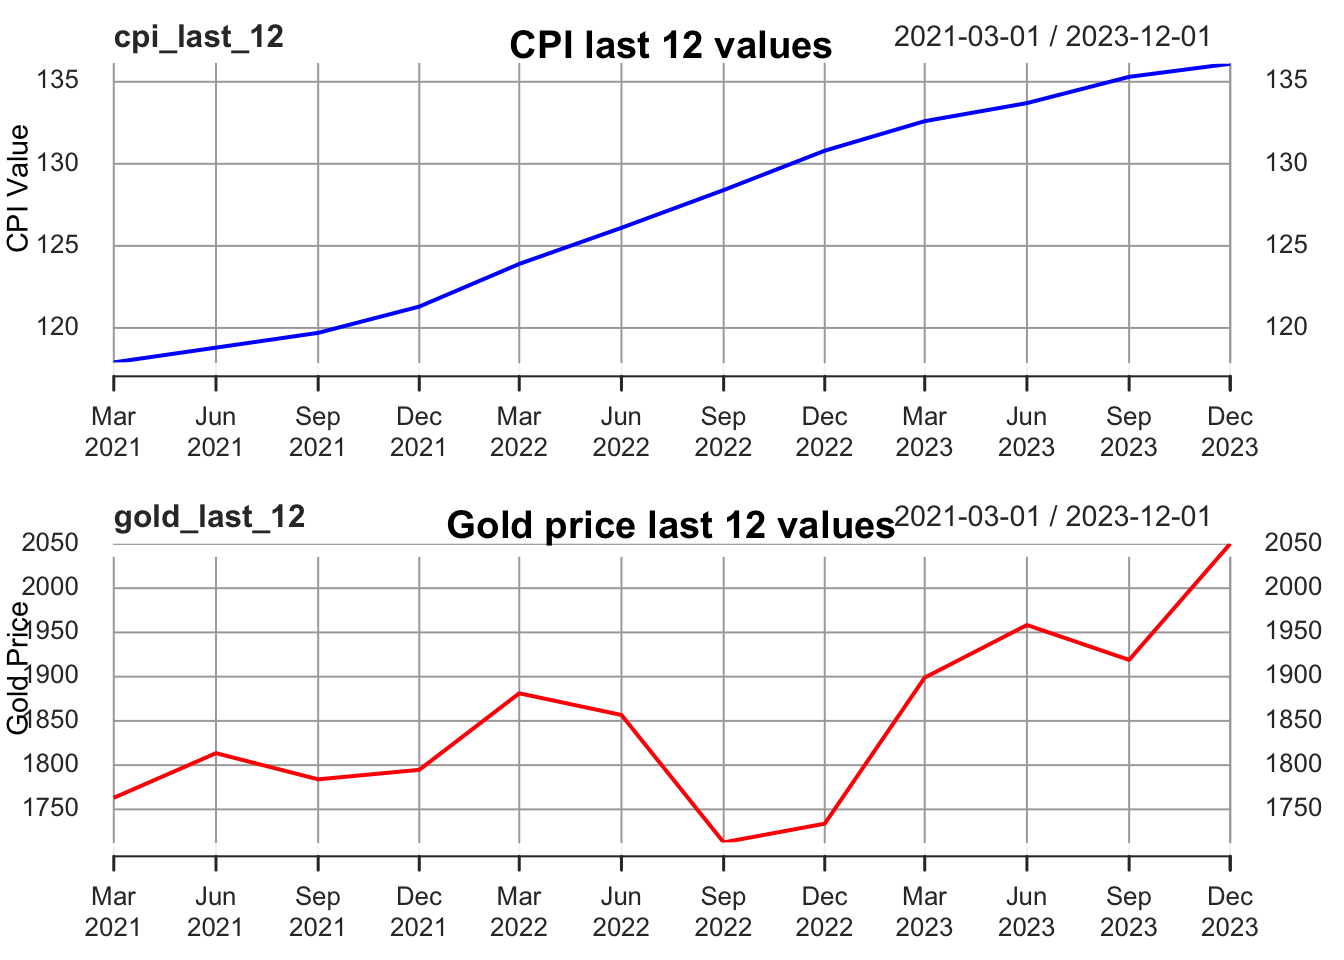
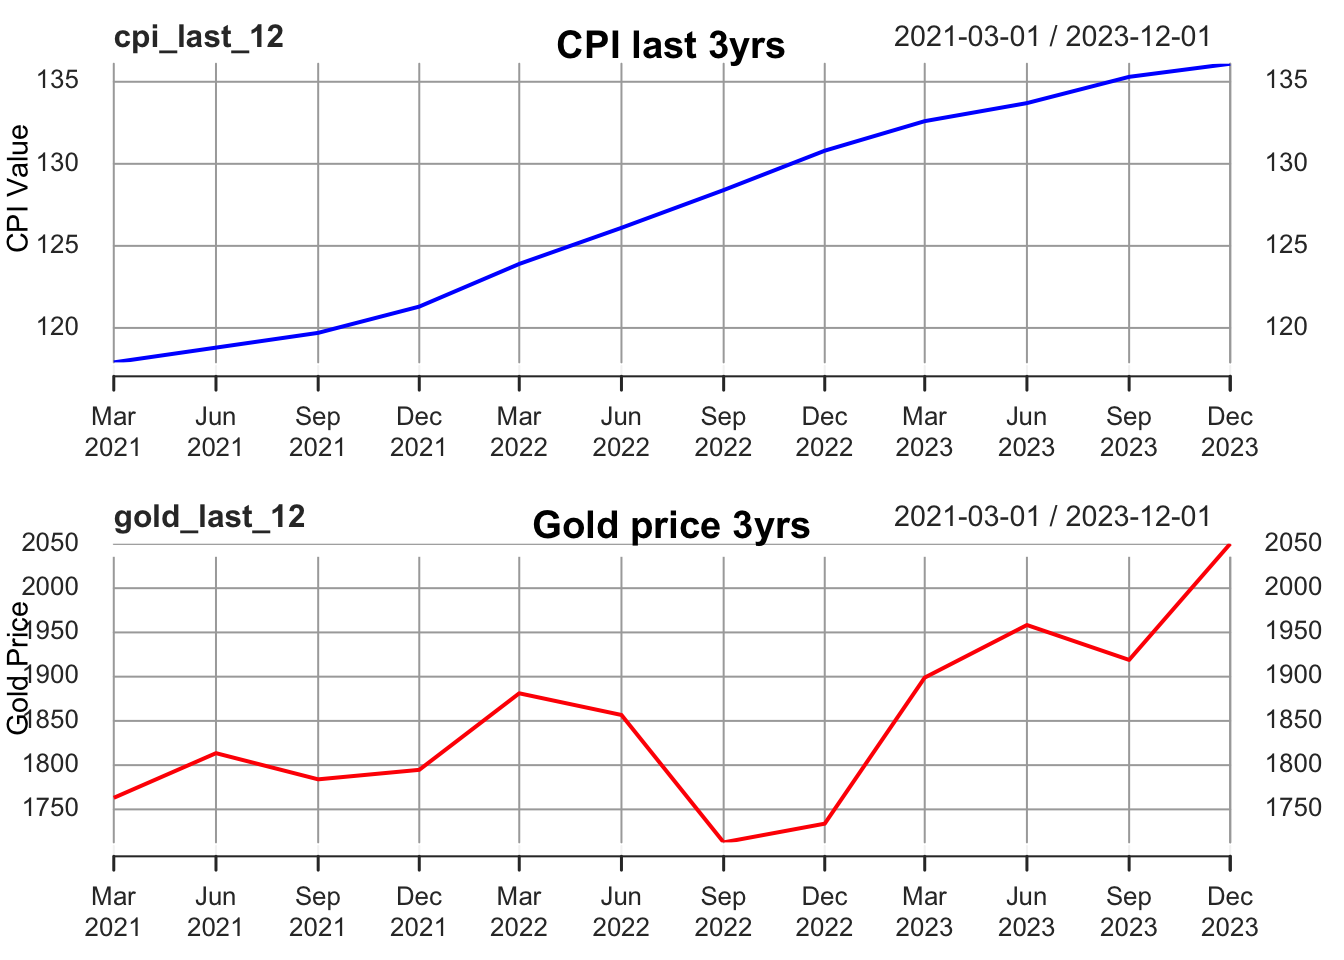
update web

Changed region(s): [[0.3125, 0.5312, 0.6875, 0.5625], [0.375, 0.0312, 0.625, 0.0625]]

diff --git a/docs/index.html b/docs/index.html
@@ -202,138 +202,50 @@ ul.task-list li input[type="checkbox"] {
 <table class="table table-striped table-hover table-bordered table-sm small" data-quarto-postprocess="true">
 <thead>
 <tr class="header">
+<th data-quarto-table-cell-role="th" style="text-align: center; position: sticky; top: 0; background-color: #FFFFFF;">Variable</th>
 <th data-quarto-table-cell-role="th" style="text-align: center; position: sticky; top: 0; background-color: #FFFFFF;">cpi_data</th>
-<th data-quarto-table-cell-role="th" style="text-align: center; position: sticky; top: 0; background-color: #FFFFFF;">gold_data</th>
-<th data-quarto-table-cell-role="th" style="text-align: center; position: sticky; top: 0; background-color: #FFFFFF;">gdp_data</th>
-<th data-quarto-table-cell-role="th" style="text-align: center; position: sticky; top: 0; background-color: #FFFFFF;">crt_data</th>
-<th data-quarto-table-cell-role="th" style="text-align: center; position: sticky; top: 0; background-color: #FFFFFF;">unemp_data</th>
-<th data-quarto-table-cell-role="th" style="text-align: center; position: sticky; top: 0; background-color: #FFFFFF;">nloan_data</th>
-<th data-quarto-table-cell-role="th" style="text-align: center; position: sticky; top: 0; background-color: #FFFFFF;">export_data</th>
-<th data-quarto-table-cell-role="th" style="text-align: center; position: sticky; top: 0; background-color: #FFFFFF;">import_data</th>
-<th data-quarto-table-cell-role="th" style="text-align: center; position: sticky; top: 0; background-color: #FFFFFF;">aord_data</th>
-<th data-quarto-table-cell-role="th" style="text-align: center; position: sticky; top: 0; background-color: #FFFFFF;">exr_data</th>
 </tr>
 </thead>
 <tbody>
 <tr class="odd">
+<td style="text-align: center;">cpi_data</td>
 <td style="text-align: center;">1.0000</td>
+</tr>
+<tr class="even">
+<td style="text-align: center;">gold_data</td>
 <td style="text-align: center;">0.5865</td>
+</tr>
+<tr class="odd">
+<td style="text-align: center;">gdp_data</td>
 <td style="text-align: center;">0.9300</td>
+</tr>
+<tr class="even">
+<td style="text-align: center;">crt_data</td>
 <td style="text-align: center;">-0.4067</td>
+</tr>
+<tr class="odd">
+<td style="text-align: center;">unemp_data</td>
 <td style="text-align: center;">-0.5474</td>
+</tr>
+<tr class="even">
+<td style="text-align: center;">nloan_data</td>
 <td style="text-align: center;">0.7767</td>
+</tr>
+<tr class="odd">
+<td style="text-align: center;">export_data</td>
 <td style="text-align: center;">0.9682</td>
+</tr>
+<tr class="even">
+<td style="text-align: center;">import_data</td>
 <td style="text-align: center;">0.9236</td>
+</tr>
+<tr class="odd">
+<td style="text-align: center;">aord_data</td>
 <td style="text-align: center;">0.9274</td>
+</tr>
+<tr class="even">
+<td style="text-align: center;">exr_data</td>
 <td style="text-align: center;">-0.7998</td>
-</tr>
-<tr class="even">
-<td style="text-align: center;">0.5865</td>
-<td style="text-align: center;">1.0000</td>
-<td style="text-align: center;">0.4489</td>
-<td style="text-align: center;">-0.0597</td>
-<td style="text-align: center;">-0.4514</td>
-<td style="text-align: center;">0.4537</td>
-<td style="text-align: center;">0.6199</td>
-<td style="text-align: center;">0.6781</td>
-<td style="text-align: center;">0.5084</td>
-<td style="text-align: center;">-0.1096</td>
-</tr>
-<tr class="odd">
-<td style="text-align: center;">0.9300</td>
-<td style="text-align: center;">0.4489</td>
-<td style="text-align: center;">1.0000</td>
-<td style="text-align: center;">-0.5150</td>
-<td style="text-align: center;">-0.5516</td>
-<td style="text-align: center;">0.8356</td>
-<td style="text-align: center;">0.9239</td>
-<td style="text-align: center;">0.8701</td>
-<td style="text-align: center;">0.9145</td>
-<td style="text-align: center;">-0.7645</td>
-</tr>
-<tr class="even">
-<td style="text-align: center;">-0.4067</td>
-<td style="text-align: center;">-0.0597</td>
-<td style="text-align: center;">-0.5150</td>
-<td style="text-align: center;">1.0000</td>
-<td style="text-align: center;">-0.2892</td>
-<td style="text-align: center;">-0.6537</td>
-<td style="text-align: center;">-0.3195</td>
-<td style="text-align: center;">-0.3125</td>
-<td style="text-align: center;">-0.5715</td>
-<td style="text-align: center;">0.6235</td>
-</tr>
-<tr class="odd">
-<td style="text-align: center;">-0.5474</td>
-<td style="text-align: center;">-0.4514</td>
-<td style="text-align: center;">-0.5516</td>
-<td style="text-align: center;">-0.2892</td>
-<td style="text-align: center;">1.0000</td>
-<td style="text-align: center;">-0.3473</td>
-<td style="text-align: center;">-0.6836</td>
-<td style="text-align: center;">-0.7121</td>
-<td style="text-align: center;">-0.4688</td>
-<td style="text-align: center;">0.1790</td>
-</tr>
-<tr class="even">
-<td style="text-align: center;">0.7767</td>
-<td style="text-align: center;">0.4537</td>
-<td style="text-align: center;">0.8356</td>
-<td style="text-align: center;">-0.6537</td>
-<td style="text-align: center;">-0.3473</td>
-<td style="text-align: center;">1.0000</td>
-<td style="text-align: center;">0.7540</td>
-<td style="text-align: center;">0.7573</td>
-<td style="text-align: center;">0.8837</td>
-<td style="text-align: center;">-0.6727</td>
-</tr>
-<tr class="odd">
-<td style="text-align: center;">0.9682</td>
-<td style="text-align: center;">0.6199</td>
-<td style="text-align: center;">0.9239</td>
-<td style="text-align: center;">-0.3195</td>
-<td style="text-align: center;">-0.6836</td>
-<td style="text-align: center;">0.7540</td>
-<td style="text-align: center;">1.0000</td>
-<td style="text-align: center;">0.9695</td>
-<td style="text-align: center;">0.8897</td>
-<td style="text-align: center;">-0.7070</td>
-</tr>
-<tr class="even">
-<td style="text-align: center;">0.9236</td>
-<td style="text-align: center;">0.6781</td>
-<td style="text-align: center;">0.8701</td>
-<td style="text-align: center;">-0.3125</td>
-<td style="text-align: center;">-0.7121</td>
-<td style="text-align: center;">0.7573</td>
-<td style="text-align: center;">0.9695</td>
-<td style="text-align: center;">1.0000</td>
-<td style="text-align: center;">0.8916</td>
-<td style="text-align: center;">-0.6392</td>
-</tr>
-<tr class="odd">
-<td style="text-align: center;">0.9274</td>
-<td style="text-align: center;">0.5084</td>
-<td style="text-align: center;">0.9145</td>
-<td style="text-align: center;">-0.5715</td>
-<td style="text-align: center;">-0.4688</td>
-<td style="text-align: center;">0.8837</td>
-<td style="text-align: center;">0.8897</td>
-<td style="text-align: center;">0.8916</td>
-<td style="text-align: center;">1.0000</td>
-<td style="text-align: center;">-0.7927</td>
-</tr>
-<tr class="even">
-<td style="text-align: center;">-0.7998</td>
-<td style="text-align: center;">-0.1096</td>
-<td style="text-align: center;">-0.7645</td>
-<td style="text-align: center;">0.6235</td>
-<td style="text-align: center;">0.1790</td>
-<td style="text-align: center;">-0.6727</td>
-<td style="text-align: center;">-0.7070</td>
-<td style="text-align: center;">-0.6392</td>
-<td style="text-align: center;">-0.7927</td>
-<td style="text-align: center;">1.0000</td>
 </tr>
 </tbody>
 </table>
@@ -515,10 +427,10 @@ ul.task-list li input[type="checkbox"] {
 
 </div>
 </div>
+<p>Table 3 Inflation Rate 2023</p>
 <ul>
-<li>Gold price:</li>
+<li>Gold price: Observing the trend charts of gold prices and cpi in the past three years, we can see that the trends of the two are almost consistent, so we believe that it is reasonable to use international gold prices as inflation expectations. Although the gold price is denominated in US dollars, the inclusion of the Australian dollar against the US dollar exchange rate in the data set makes it feasible to convert the gold price into a measure of its impact on the Australian market.</li>
 </ul>
-<p>Observing the trend charts of gold prices and cpi in the past three years, we can see that the trends of the two are almost consistent, so we believe that it is reasonable to use international gold prices as inflation expectations (gold price reduced by tenfold). Although the gold price is denominated in US dollars, the inclusion of the Australian dollar against the US dollar exchange rate in the data set makes it feasible to convert the gold price into a measure of its impact on the Australian market.</p>
 <div class="cell" data-layout-align="center">
 <div class="cell-output-display">
 <div class="quarto-figure quarto-figure-center">
@@ -528,9 +440,68 @@ ul.task-list li input[type="checkbox"] {
 </div>
 </div>
 </div>
+<p>Figure 4 CPI and Gold Price Last 3 Yrs Plot</p>
 <ul>
-<li>Cash rate target:</li>
+<li>Cash rate target: By comparing the cash rate target (quarterly average) over the past 2 year with the inflation rate, we can see that the cash rate target has increased by 1 percentage point over the past year (percentage change is 0.51), which is a decrease from the almost 3 percentage point increase in 2022 (percentage change nearly 27). The inflation rate has indeed shown a significant downward trend in 2023. There are reasons to believe that the effects of the RBA’s monetary tightening policy have already been reflected.</li>
 </ul>
+<div class="cell" data-layout-align="center">
+<div class="cell-output-display">
+<div class="table-responsive">
+<table class="table table-striped table-hover table-bordered table-sm small" data-quarto-postprocess="true">
+<thead>
+<tr class="header">
+<th data-quarto-table-cell-role="th" style="text-align: center; position: sticky; top: 0; background-color: #FFFFFF;"></th>
+<th data-quarto-table-cell-role="th" style="text-align: center; position: sticky; top: 0; background-color: #FFFFFF;">2021/12</th>
+<th data-quarto-table-cell-role="th" style="text-align: center; position: sticky; top: 0; background-color: #FFFFFF;">2022/03</th>
+<th data-quarto-table-cell-role="th" style="text-align: center; position: sticky; top: 0; background-color: #FFFFFF;">2022/06</th>
+<th data-quarto-table-cell-role="th" style="text-align: center; position: sticky; top: 0; background-color: #FFFFFF;">2022/09</th>
+<th data-quarto-table-cell-role="th" style="text-align: center; position: sticky; top: 0; background-color: #FFFFFF;">2022/12</th>
+<th data-quarto-table-cell-role="th" style="text-align: center; position: sticky; top: 0; background-color: #FFFFFF;">2022 annual change</th>
+<th data-quarto-table-cell-role="th" style="text-align: center; position: sticky; top: 0; background-color: #FFFFFF;">2023/03</th>
+<th data-quarto-table-cell-role="th" style="text-align: center; position: sticky; top: 0; background-color: #FFFFFF;">2023/06</th>
+<th data-quarto-table-cell-role="th" style="text-align: center; position: sticky; top: 0; background-color: #FFFFFF;">2023/09</th>
+<th data-quarto-table-cell-role="th" style="text-align: center; position: sticky; top: 0; background-color: #FFFFFF;">2023/12</th>
+<th data-quarto-table-cell-role="th" style="text-align: center; position: sticky; top: 0; background-color: #FFFFFF;">2023 annual change</th>
+</tr>
+</thead>
+<tbody>
+<tr class="odd">
+<td style="text-align: center;">Inflation rate</td>
+<td style="text-align: center;">54.96</td>
+<td style="text-align: center;">256.14</td>
+<td style="text-align: center;">131.44</td>
+<td style="text-align: center;">139.49</td>
+<td style="text-align: center;">39.47</td>
+<td style="text-align: center;">-0.28</td>
+<td style="text-align: center;">-35.55</td>
+<td style="text-align: center;">-53.06</td>
+<td style="text-align: center;">-34.19</td>
+<td style="text-align: center;">-68.17</td>
+<td style="text-align: center;">-2.73</td>
+</tr>
+<tr class="even">
+<td style="text-align: center;">Cash rate target</td>
+<td style="text-align: center;">844.00</td>
+<td style="text-align: center;">19.00</td>
+<td style="text-align: center;">75.00</td>
+<td style="text-align: center;">-81.00</td>
+<td style="text-align: center;">57.00</td>
+<td style="text-align: center;">-0.93</td>
+<td style="text-align: center;">-1.00</td>
+<td style="text-align: center;">-40.00</td>
+<td style="text-align: center;">-106.00</td>
+<td style="text-align: center;">-78.00</td>
+<td style="text-align: center;">-2.37</td>
+</tr>
+</tbody>
+</table>
+</div>
+
+
+</div>
+</div>
+<p>Table 4 Cash Rate Target vs Inflation Rate</p>
+<p>In summary, based on the above analysis, it is expected that gold prices and cpi will have a positive correlation, but the cash rate target will have a negative correlation. This is also consistent with the correlations in Table 1.</p>
 </section>
 </section>
 <section id="the-model-and-hypothesis" class="level2">
